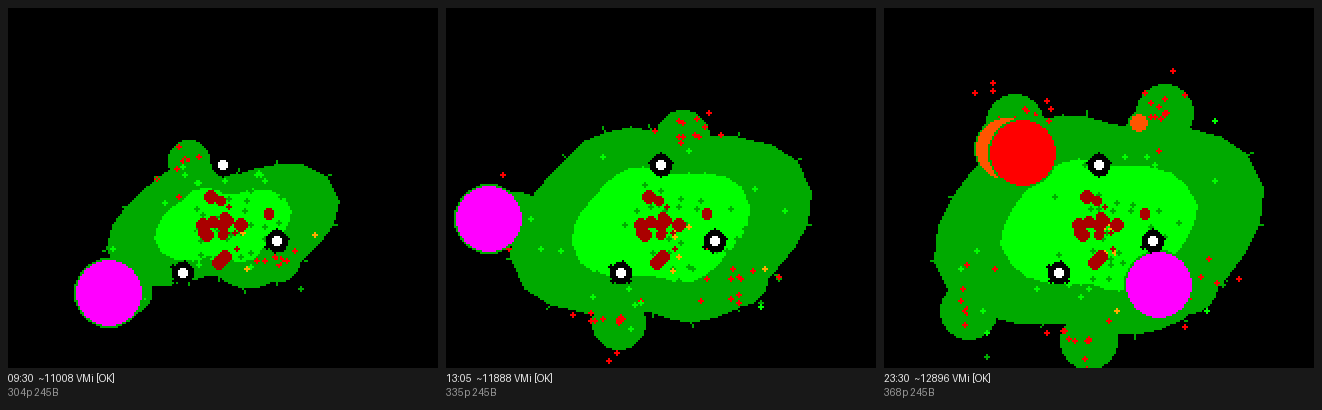
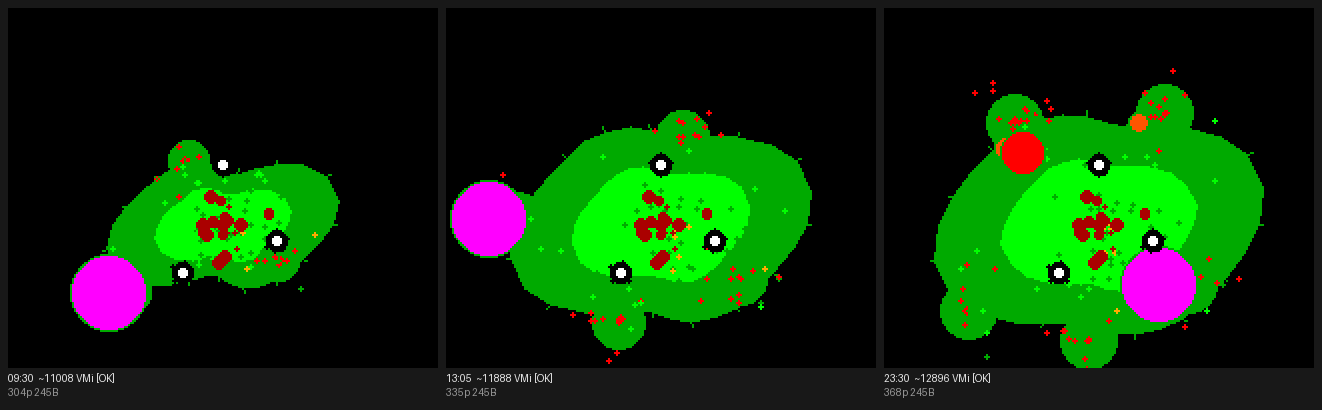
two-worlds V2 (sandbox): gentler bead slope + higher cap for spread
Sandbox iteration only. Episode bead size is now a direct final px radius,
4 + mag/30 capped at 18 (was ~mag/6 capped ~17 after scaling): same floor,
gentler slope, higher ceiling -- so long/hard efforts spread out in size
(run r18 > gym r10 > bus r5 > brief r4) instead of all pinning to the cap.

Claude-Session: https://claude.ai/code/session_013ZYU1FhJF8SVMrxkyMAnxe

diff --git a/sketches/algos/moss_grove.py b/sketches/algos/moss_grove.py
@@ -237,10 +237,12 @@ class MossGrove:
             if ink <= 0:
                 break
             mag = rec.emag[e]
-            bead = 3 + idiv(mag, 6)            # 2x more magnitude-driven growth
-            if bead > 9:                       # ... with 2x the growth headroom
-                bead = 9
-            bead = idiv(scl(bead) * 3, 2)      # 1.5x overall bead scale
+            # gentle slope + high cap so long/hard efforts spread out in size
+            # (a 90-min session reads clearly bigger than a 15-min one) while the
+            # floor stays put. Bead is a final px radius here (already scaled).
+            bead = 4 + idiv(mag, 30)
+            if bead > 18:
+                bead = 18
             if ntuft > 0:
                 t = imod(hash16(seed, e, 41), ntuft)
                 hj = hash16(seed, t, 31)
